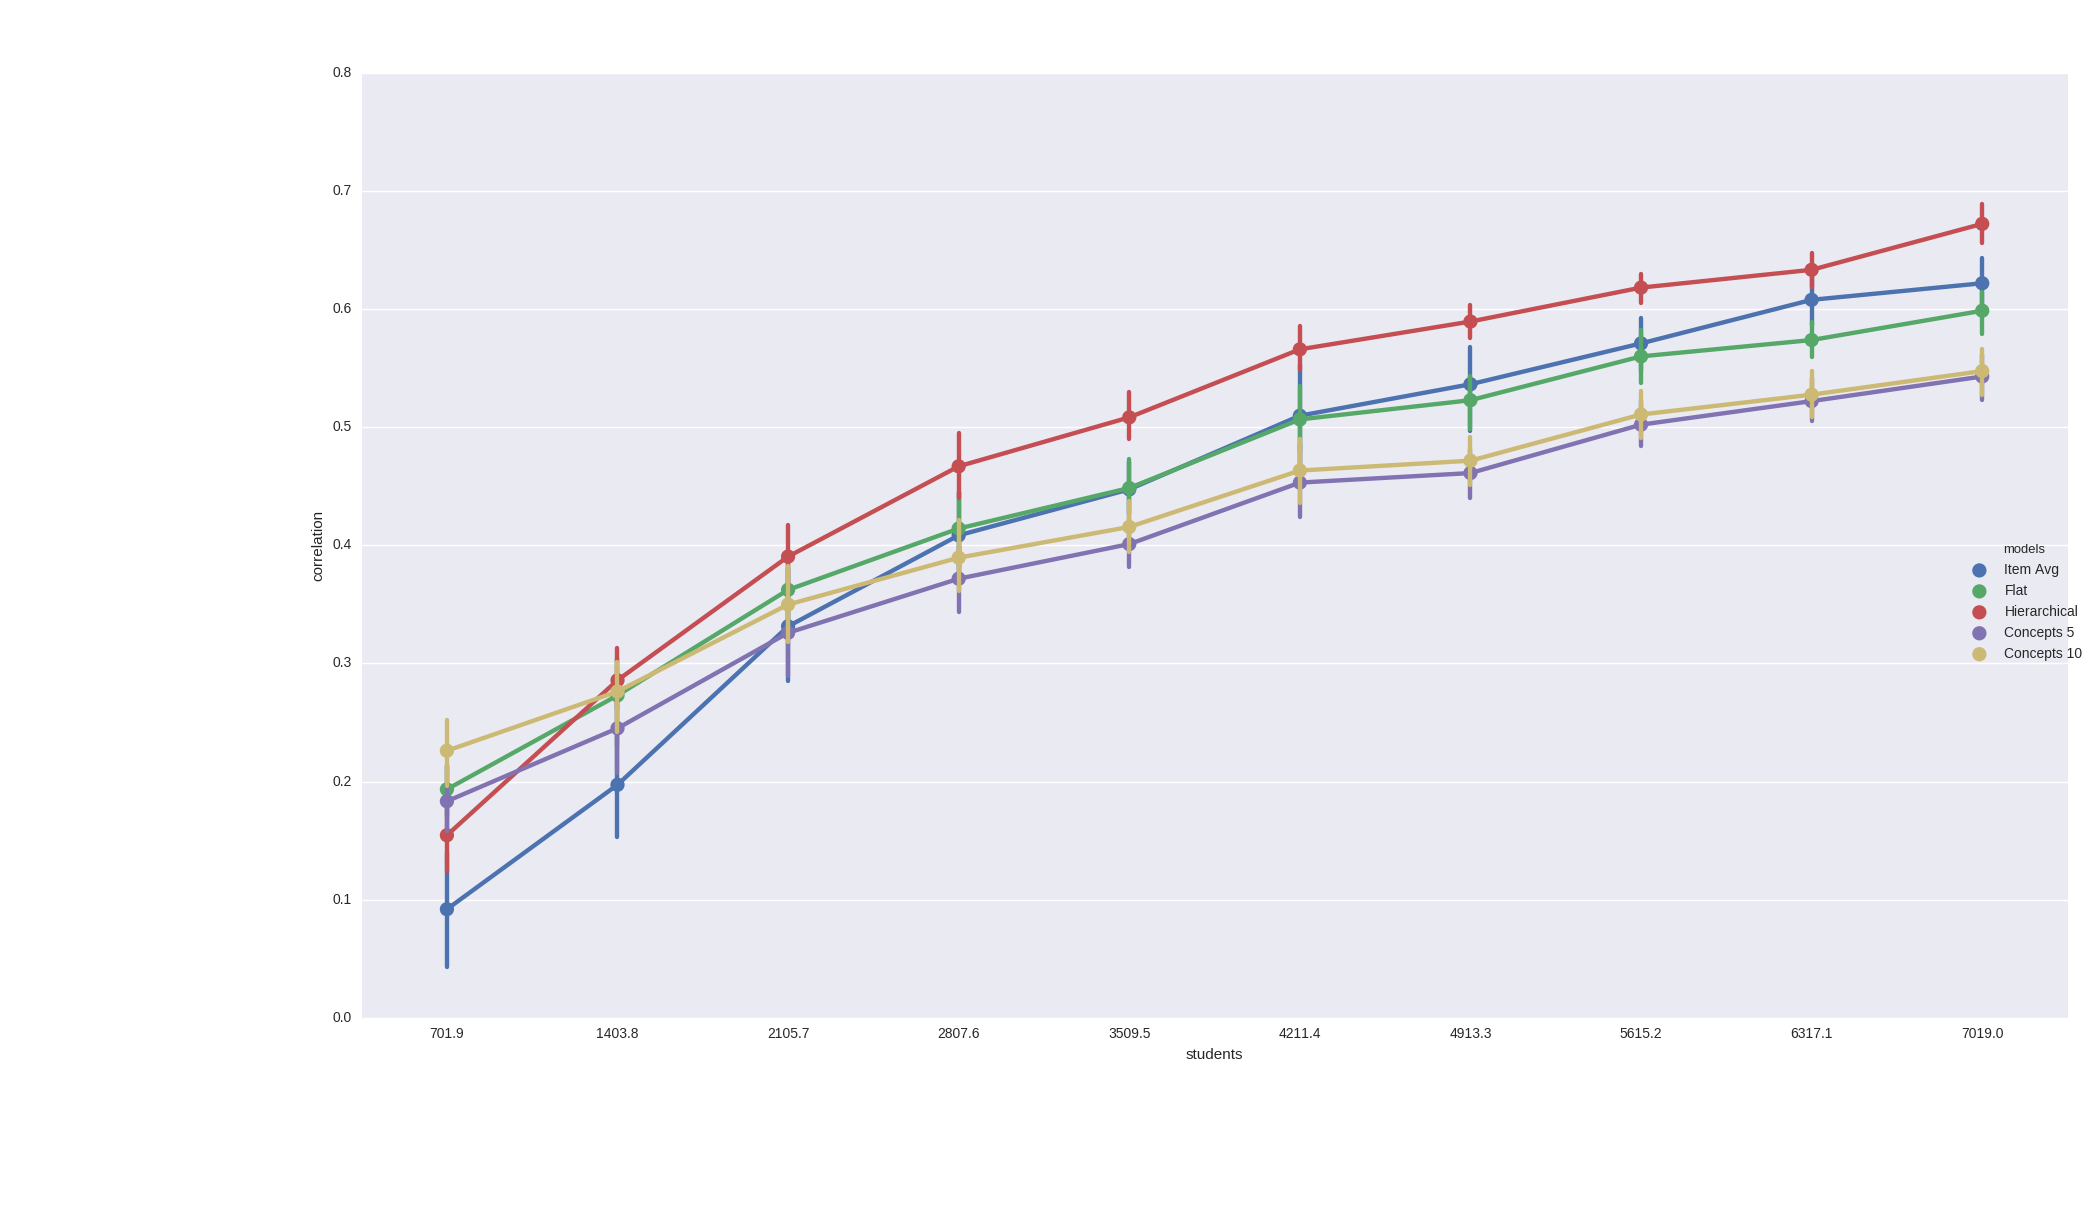
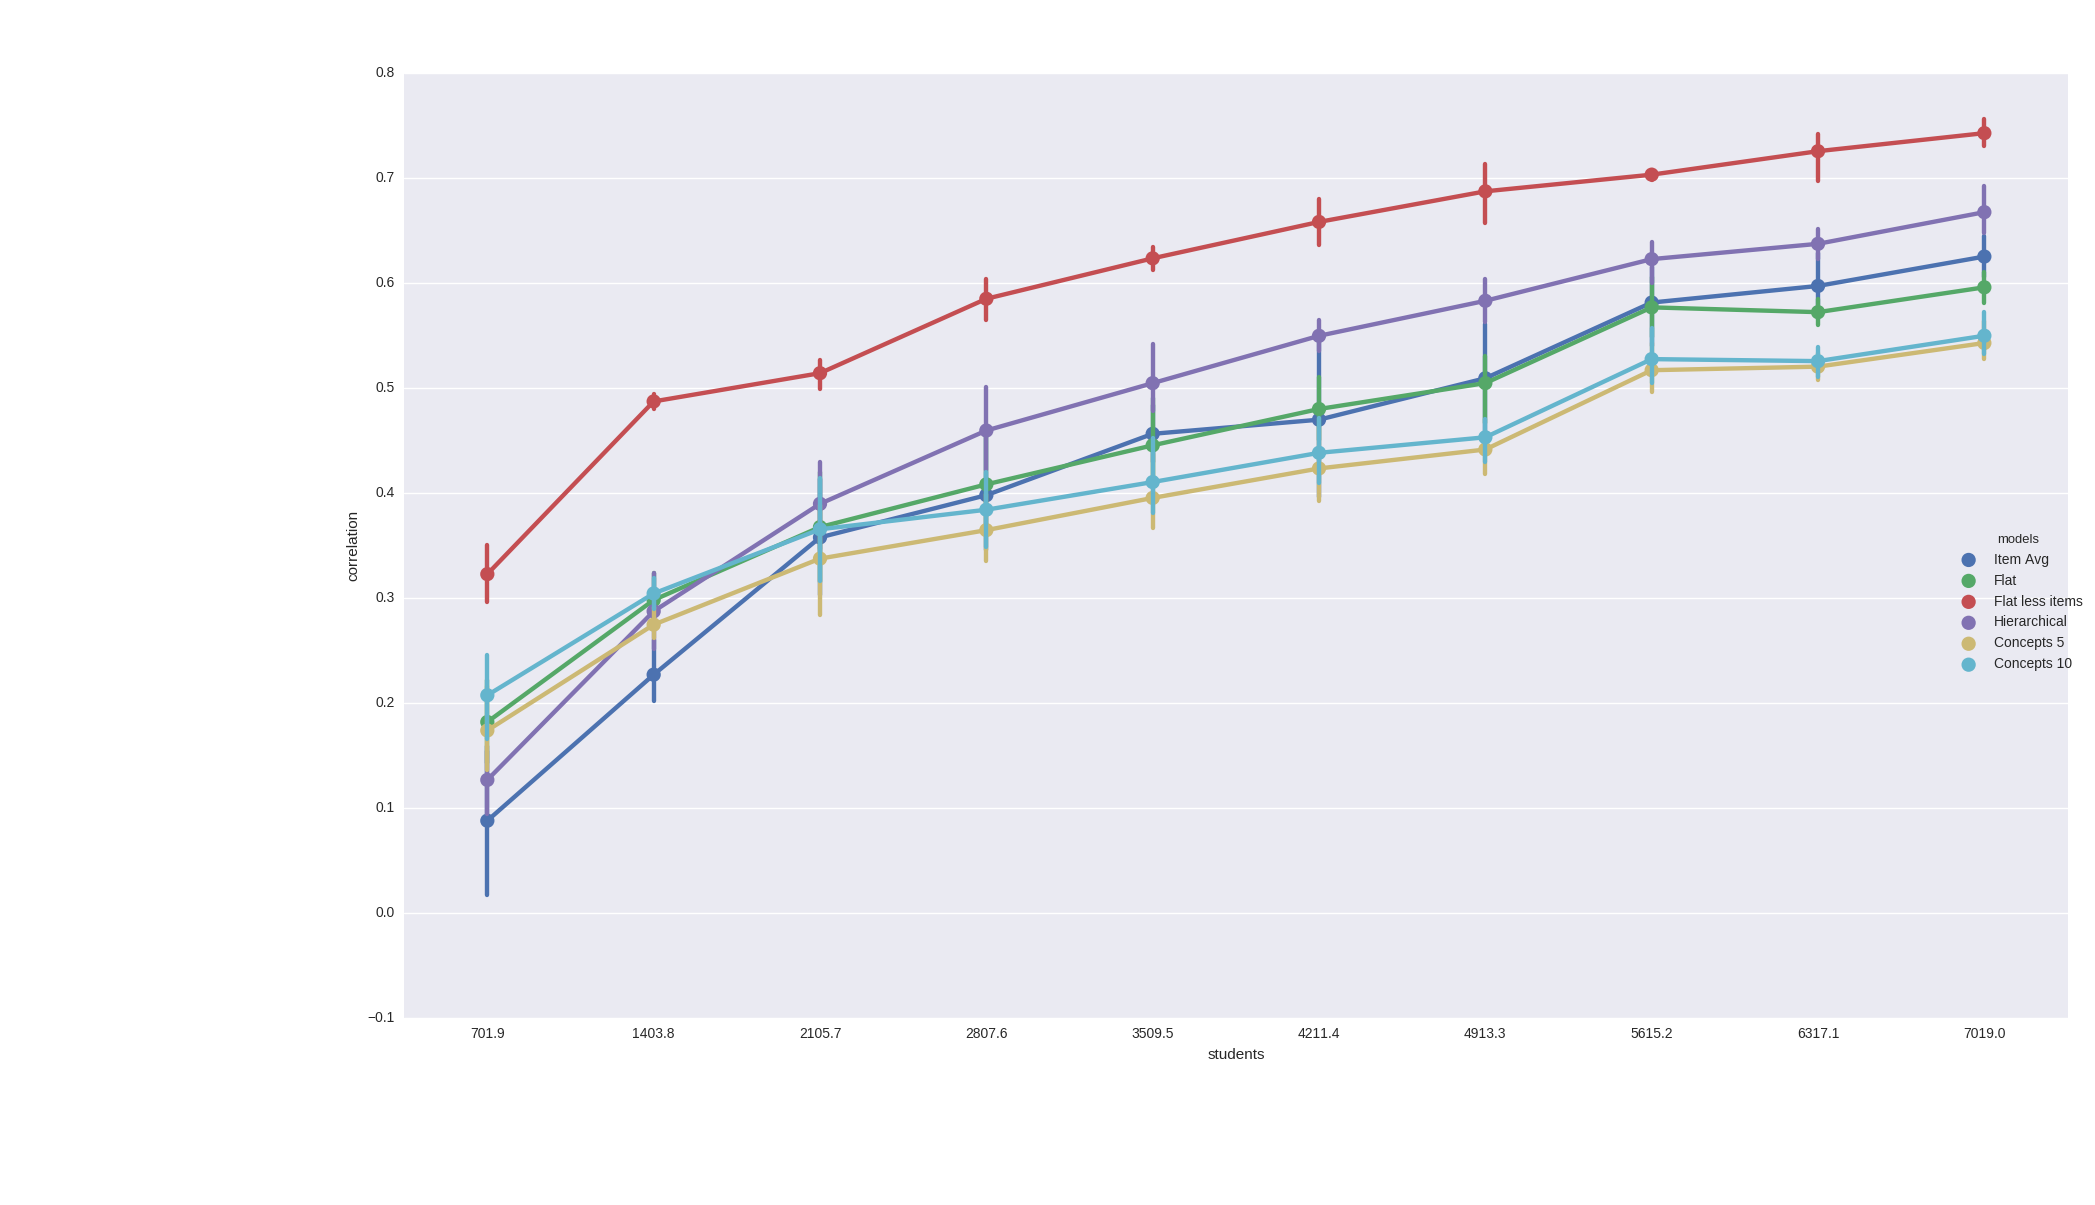
stability - more experiments

diff --git a/matmat/model impact/models_impact.py b/matmat/model impact/models_impact.py
@@ -229,6 +229,7 @@ model_flat = lambda label: EloPriorCurrentModel(KC=2, KI=0.5)
 model_hierarchical = lambda label: EloHierarchicalModel(KC=1, KI=0.75, alpha=0.8, beta=0.02)
 filename = "../../data/matmat/2016-01-04/answers.pd"
 data = lambda l: Data(filename, train_size=0.7)
+data_less_items = lambda l: Data(filename.replace(".pd", ".less_items.pd"), train_size=0.7)
 data_test = lambda l: Data(filename.replace(".pd", ".test.pd"))
 data_train = lambda l: Data(filename.replace(".pd", ".train.pd"))
 data_skip_time = lambda l: Data(filename, train_size=0.7, response_modification=TimeLimitResponseModificator([(7, 0.5)]))
@@ -284,24 +285,42 @@ models_concepts = {
 # print(data.get_dataframe_all()["response_time"].median())
 
 if False:
-    prediction_quality(
-    # difficulty_stability2(
-        [data_train, data_train, data_train, data_train, data_train],
-        # [data, data, data, data, data],
+    # prediction_quality(
+    difficulty_stability2(
+        # [data_train, data_train, data_train, data_train, data_train],
+        [data, data, data_less_items, data, data, data],
         [
             lambda l: ItemAvgModel(),
+            model_flat,
             model_flat,
             model_hierarchical,
             lambda l: EloConcepts(concepts=concepts_5),
             lambda l: EloConcepts(concepts=concepts_10)
         ],
-        ["Item Avg", "Flat", "Hierarchical", "Concepts 5", "Concepts 10"],
-        10, runs=10,
+        ["Item Avg", "Flat", "Flat less items", "Hierarchical", "Concepts 5", "Concepts 10"],
+        10, runs=5,
         # eval_data=data_test
     )
 
-
 if True:
+    difficulty_stability2(
+    # prediction_quality(
+            [data, data, data, data, data, data, data],
+            # [data_train, data_train, data_train, data_train, data_train, data_train, data_train],
+            [
+                lambda l: EloPriorCurrentModel(),
+                lambda l: EloPriorCurrentModel(alpha=0.2),
+                lambda l: EloPriorCurrentModel(alpha=5),
+                lambda l: EloPriorCurrentModel(beta=0.5),
+                lambda l: EloPriorCurrentModel(beta=0.02),
+                lambda l: EloPriorCurrentModel(KC=8, KI=2),
+                lambda l: EloPriorCurrentModel(KC=2, KI=0.5)
+            ],
+            ["Default (alpha=1, beta=0.1, K=1,1)", "alpha=0.5", "alpha=2", "beta=0.5", "beta=0.02", "K=8,2", "Fitted (K=2,0.5)"],
+            10, runs=2,
+    )
+
+if False:
     # prediction_quality(
     difficulty_stability2(
         [
@@ -321,5 +340,12 @@ if False:
     data = Data(filename, train_size=0.7)
     data.get_dataframe_train().to_pickle(filename.replace(".pd", ".train.pd"))
     data.get_dataframe_test().to_pickle(filename.replace(".pd", ".test.pd"))
+
+if False:
+    d = data(None)
+    df = d.get_dataframe_all()
+    items = d.get_items_df()
+
+    df.to_pickle(filename.replace(".pd", ".less_items.pd"))
 
 plt.show()
